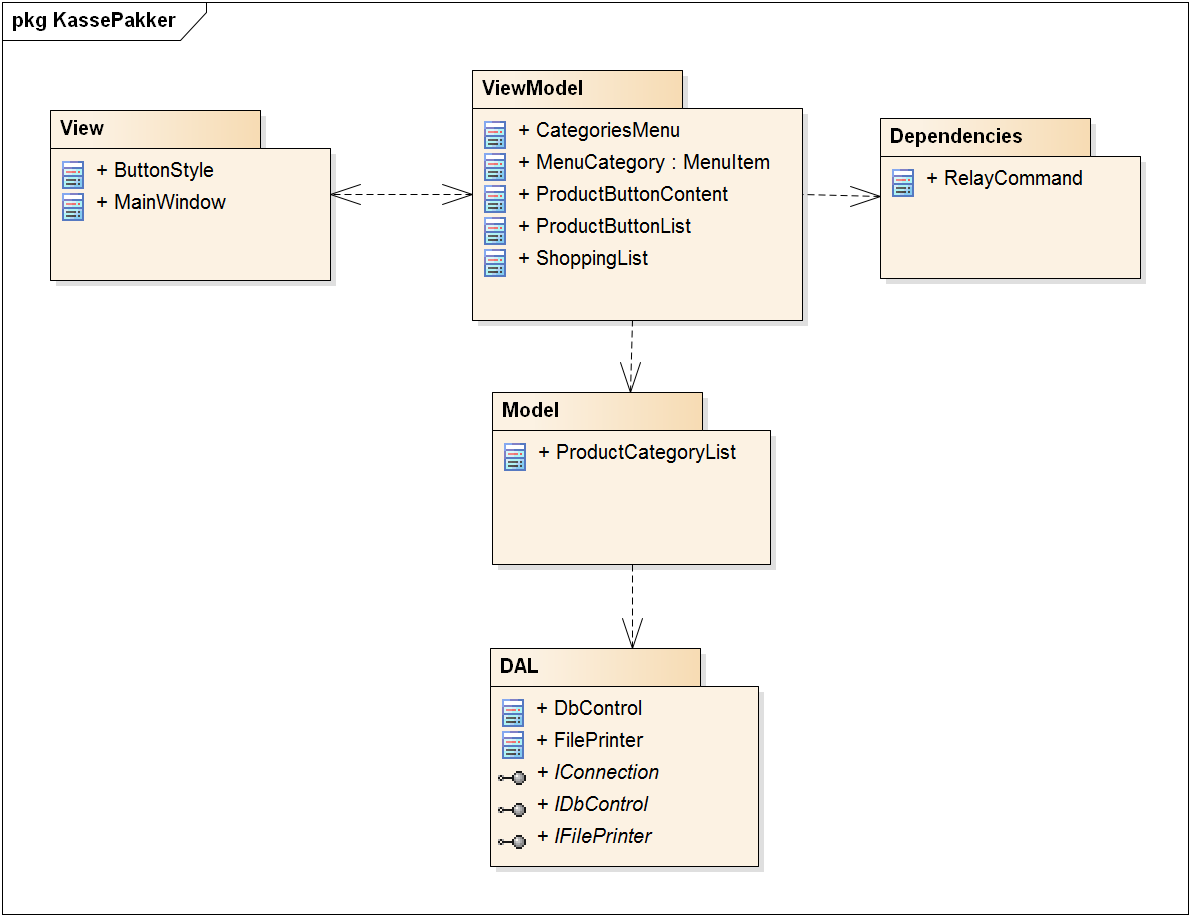
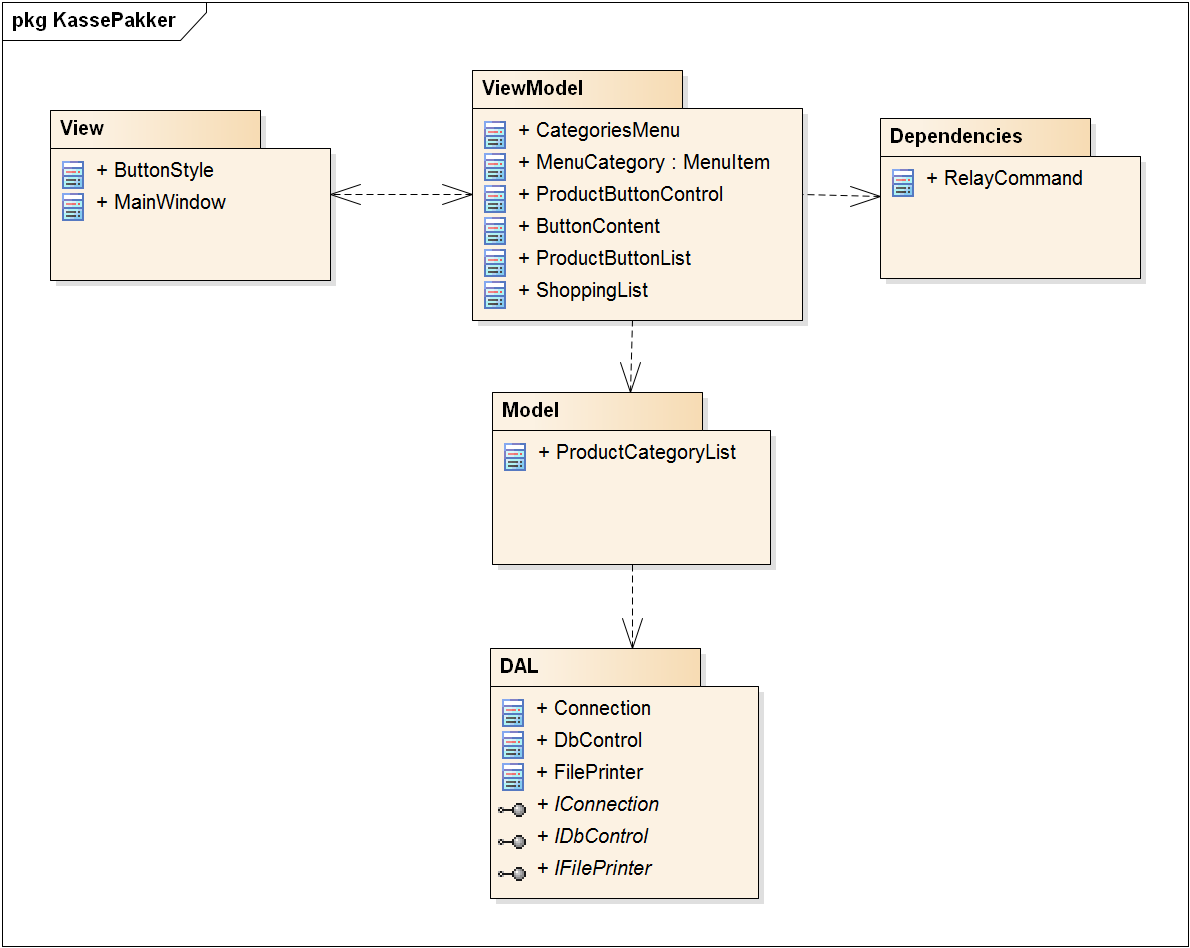
rettelser

diff --git a/LaTeX/Projektdokumtation/Systemdesign/Frontend/GUI/DesignOgStruktur/DesignAfSoftware.tex b/LaTeX/Projektdokumtation/Systemdesign/Frontend/GUI/DesignOgStruktur/DesignAfSoftware.tex
@@ -1,5 +1,5 @@
 \subsubsection{Design af elementer}
-Herunder vil designet af en stor del af kommunikationen i grænsefladen blive beskrevet, både med klassediagrammer og sekvensdiagrammer.\\
+Herunder vil designet af en stor del af kommunikationen i \gls{KA}tet blive beskrevet, både med klassediagrammer og sekvensdiagrammer.\\
 
 \textbf{Klassediagrammer}\\
 
@@ -10,8 +10,8 @@ Herunder vil designet af en stor del af kommunikationen i grænsefladen blive be
 	\label{fig:KasseKlasse}
 \end{figure}
 
-På figur \ref{fig:KasseKlasse} kan man se hele kasseapparatets software vist ved dens klasser og funktioner. Dog er ViewModels delt op i 2 pakker. Dette er bestemt, da det ville give mere mening at gøre det på denne måde, når man skulle forklare klasserne og deres indbyrdes forhold. Disse forhold vil blive nærmere beskrevet ved figur \ref{fig:ButtonModel} og \ref{fig:CategoryControl} \\
-Klassediagrammet er delt op i 3 lag, der skal symbolisere henholdsvis Presentation-, Business Logic- og Data Access Layer.
+På figur \ref{fig:KasseKlasse} kan man se hele kasseapparatets software vist ved dens klasser og funktioner. Dog er ViewModels delt op i 2 pakker, hhv. ButtonModel og CategoryControl. Dette er bestemt, da det ville give mere mening at gøre det på denne måde, når man skulle forklare klasserne og deres indbyrdes forhold. Disse forhold vil blive nærmere beskrevet ved figur \ref{fig:ButtonModel} og \ref{fig:CategoryControl} \\
+Klassediagrammet er delt op i 3 lag, der skal symbolisere henholdsvis Presentation-, Business Logic- og Data Access Layer. Den øverste række af klasser, repræsenteret ved MainWindow, er presentationlayer. Den midterste række er business logic, repræsenteret ved ShoppingList. Den nederste række er data access layer, repræsenteret ved Connection.
 
 \begin{figure}[H]
 	\centering
@@ -20,7 +20,7 @@ Klassediagrammet er delt op i 3 lag, der skal symbolisere henholdsvis Presentati
 	\label{fig:ButtonModel}
 \end{figure}
 
-På figur \ref{fig:ButtonModel} ser man ViewModel pakken buttonmodel, der står for produktknapperne i grænsefladen. Disse objekter sikrer at man kan skifte produktside og ved tryk på en knap kan et produkt tilføjes til shoppinglist som er indkøbskurven på \gls{KA}tet. For at opsætte denne pakke blev der først opsat et sekvensdiagram set på figur ??.
+På figur \ref{fig:ButtonModel} ser man ViewModel pakken buttonmodel, der står for produktknapperne i grænsefladen. Disse objekter sikrer at man kan skifte produktside og ved tryk på en knap kan et produkt tilføjes til shoppinglist som er indkøbskurven på \gls{KA}tet. For at opsætte denne pakke blev der først opsat et sekvensdiagram set på figur \ref{fig:SekvensUpdatePCL}. Sekvensdiagrammet viser hvordan knapperne bliver oprettet.
 
 \begin{figure}[H]
 	\centering

diff --git a/LaTeX/Projektdokumtation/Systemdesign/Frontend/GUI/DesignOgStruktur/DesignOgStruktur.tex b/LaTeX/Projektdokumtation/Systemdesign/Frontend/GUI/DesignOgStruktur/DesignOgStruktur.tex
@@ -1,5 +1,5 @@
 \subsection{Design og struktur}
-\gls{KA} er designet med MVVM~\cite{MVVM}, og dertil også med stor fokus på adskillelse af Business Logic- og Præsentationslaget. Dette er sikret ved brug af viewmodels der står for at styre logikken i grænsefladen samt kommunikere ned i de nedre lag. Disse bliver forklaret nærmere længere nede, i kapital ??.
+\gls{KA} er designet med MVVM~\cite{MVVM}, og dertil også med stor fokus på adskillelse af Business Logic- og Præsentationslaget. Dette er sikret ved brug af viewmodels der står for at styre logikken i grænsefladen samt kommunikere med de nedre lag. Disse bliver forklaret nærmere længere i kapitel \ref{VIEWMODELS}.
 Systemet er herunder beskrevet ved følgende pakkediagram for at give et hurtigt overblik.	
 
 \begin{figure}[H]
@@ -15,8 +15,8 @@ Som man kan se på det ovenstående pakkediagram består \gls{KA} primært af gr
 	\item \textbf{View} Views indeholder vores præsentationslagslogik. Det er skrevet i XML og er direkte med til at style vores grænseflade.
 	\item \textbf{ViewModel} Er en mediator mellem modellaget og grænsefladen. Viewmodels sikrer at \gls{KA} grænsefladen afspejler ændringer der sker i systemet, samt kommunikerer grænsefladens ændringer til de lavere lag. Indholdet af denne bliver beskrevet nærmere i afsnit ?? om præsentationslaget.
 	\item \textbf{Dependencies} Indeholder sourcekode der gør det nemmere at arbejde med commands.
-	\item \textbf{Model} Indeholder business logic. Dette er der ikke særligt meget af, da de fleste models findes i \gls{SL}
-	\item \textbf{DAL} Indeholder logik til at kommunikere med \gls{CS} og derved \gls{DB}. Dette lag vil blive beskrevet nærmere i afsnittet ?? om Data Access Laget.
+	\item \textbf{Model} Indeholder business logic. Dette er der ikke særligt meget af, da de fleste models findes i \gls{SL} samt håndteres i Administrationssystem.
+	\item \textbf{DAL} Indeholder logik til at kommunikere med \gls{CS} og derved \gls{DB}. Dette lag vil blive beskrevet nærmere i afsnittet \ref{DAL} om Data Access Laget.
 \end{itemize}
 
 

diff --git a/LaTeX/Projektdokumtation/Systemdesign/Frontend/GUI/ViewModels.tex b/LaTeX/Projektdokumtation/Systemdesign/Frontend/GUI/ViewModels.tex
@@ -1,5 +1,5 @@
-\subsubsection{ViewModels}
-Herunder vil de brugte viewmodels kort blivet forklaret.
+\subsubsection{ViewModels} \label{VIEWMODELS}
+Herunder vil \gls{KA}
 
 \subsubsection{Klassebeskrivelser}
 \textbf{MainWindow}\\
@@ -13,7 +13,7 @@ I MainWindow er der oprettet en række Button.Click.Events, som har ansvar for l
 \end{figure}
 
 \textbf{CategoriesMenu}\\
-CategoriesMenu er en menu med categorier. Denne klasse står for at kende alle kategorier. Ved et tryk på "Categories" knappen, vil CategoriesMenu oprette en menu med alle kategorier der eksisterer i systemet. Til hver MenuItem vil den også tilknytte en liste af produkter. Derved kan der, ved tryk på menuitem, oprettes knapper med præcis de produkter der er ønsket. 
+CategoriesMenu er en menu med kategorier. Denne klasse står for at kende en liste med alle kategorier ved navn ProductCategoryList. Ved et tryk på "Categories" knappen, vil CategoriesMenu oprette en menu med alle kategorier der eksisterer i systemet plus en kategori der inkluderer alle produkter. Til hver MenuItem vil den også tilknytte en liste af produkter. Derved kan der, ved tryk på menuitem, oprettes knapper med præcis de produkter der er ønsket. 
 
 \begin{figure}[H]
 	\centering
@@ -54,8 +54,8 @@ ProductButtonList indeholder lister af knapper. Derved kan hver knappeliste symb
 	\label{fig:PBL}
 \end{figure}
 
-\textbf{ProductButtonContent} \\
-ProductButtonContent har indholdet af 1 knap på grænsefladen, samt produktinformationer og commands til at oprette produkter på ShoppingList ved tryk. Når man skifter side i grænsefladen vil ProductButtonContent være forbundet til hver knap.
+\textbf{ButtonContent} \\
+ButtonContent har indholdet af 1 knap på grænsefladen, samt produktinformationer og commands til at oprette produkter på ShoppingList ved tryk. Når man skifter side i grænsefladen vil ProductButtonContent være forbundet til hver knap.
 
 \begin{figure}[H]
 	\centering

diff --git a/LaTeX/Projektdokumtation/Systemdesign/Frontend/GUI/MainWindowXAML.tex b/LaTeX/Projektdokumtation/Systemdesign/Frontend/GUI/MainWindowXAML.tex
@@ -1,3 +1,3 @@
 \textbf{MainWindow.xaml}
 
-Til kasseapparatet er der tilknyttet en stor Viewfil ved navn Mainwindow hvor hele opsætningen af grænsefladen visuelle dele er opskrevet. Hele grænsefladen er opbygget af grids. Ved at bruge grids er det nemt at opsætte grænsefladen, da man kan have grids i grids og derved præcist kan styre hvordan de forskellige elementer skal være placeret. Samtidig har grids indbygget skalering af de elementer den indkapsler. Dette gør at \gls{KA} selv skalerer korrekt alt efter skærmopløsningen.
+Til kasseapparatet er der tilknyttet en stor Viewfil ved navn Mainwindow, hvor hele opsætningen af grænsefladens elementer dele er opskrevet. Hele grænsefladen er opbygget af grids. Ved at benytte grids er det nemt at opsætte grænsefladen, da man kan have grids i grids og derved præcist kan styre hvordan de forskellige elementer skal være placeret. Samtidig har grids indbygget skalering af de elementer den indkapsler. Dette gør at \gls{KA} selv skalerer korrekt alt efter skærmopløsningen.

diff --git a/LaTeX/Projektdokumtation/Systemdesign/Frontend/GUI.tex b/LaTeX/Projektdokumtation/Systemdesign/Frontend/GUI.tex
@@ -9,7 +9,7 @@ Præsentationslaget i kasseapparatet er bygget med XML i WPF. Selve laget blev f
 \begin{figure}[H]
 	\centering
 	\includegraphics[width=1\textwidth]{Systemdesign/Frontend/pics/KasseMockup}
-	\caption{Første mockup af grænsefladen til kasseapparatet.}
+	\caption{Første mockup af grænsefladen til \gls{KA}.}
 	\label{fig:KasseMockup}
 \end{figure}
 
@@ -18,7 +18,7 @@ Den ovenstående skitse, var den første skitse af kasseapparatets brugergrænse
 \begin{figure}[H]
 	\centering
 	\includegraphics[width=1\textwidth]{Systemdesign/Frontend/pics/GUI}
-	\caption{ProductButtonControl}
+	\caption{Implementeret grænseflade til \gls{KA}}
 	\label{fig:EndeligeGUI}
 \end{figure}
 

diff --git a/LaTeX/Projektdokumtation/Systemdesign/Frontend/DAL.tex b/LaTeX/Projektdokumtation/Systemdesign/Frontend/DAL.tex
@@ -1,4 +1,4 @@
-\subsection{Data Access Layer}
+\subsection{Data Access Layer} \label{DAL}
 
 \input{Systemdesign/Frontend/DAL/Intro}
 \subsubsection{Klassebeskrivelser}
